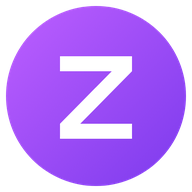
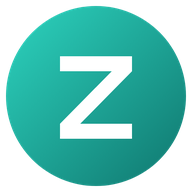
Switch accent colour from purple to teal
Mana has no colour setting, so add a site stylesheet (custom.css) loaded
after the theme's CSS via an overridden head/css.html partial. It
redefines the accent variables for dark and light mode plus the few
hard-coded purples (background glow, search highlights). Recolour the
logo and favicons to match.

Claude-Session: https://claude.ai/code/session_01NFspQHhVA3Ka4cSCqWoxnK

diff --git a/assets/css/custom.css b/assets/css/custom.css
@@ -1,0 +1,74 @@
+/* Zakonomics colour overrides for the Mana theme: purple → teal.
+   The variable names keep the theme's "purple" naming so they still match. */
+
+:root {
+  --accent-primary: #14b8a6;
+  --accent-mid-purple: #2dd4bf;
+  --accent-light-purple: #5eead4;
+  --accent-secondary: #22d3ee;
+  --accent-hover: #2dd4bf;
+  --primary-color: #2dd4bf;
+  --accent-primary-rgba-03: rgba(20, 184, 166, 0.3);
+  --accent-primary-rgba-05: rgba(20, 184, 166, 0.5);
+  --accent-light-purple-rgba-01: rgba(94, 234, 212, 0.1);
+  --accent-light-purple-rgba-03: rgba(94, 234, 212, 0.3);
+  --accent-mid-purple-rgba-05: rgba(45, 212, 191, 0.05);
+  --accent-mid-purple-rgba-01: rgba(45, 212, 191, 0.1);
+  --accent-mid-purple-rgba-02: rgba(45, 212, 191, 0.2);
+}
+
+[data-theme="light"] {
+  --glass-border: rgba(94, 234, 212, 0.55);
+  --accent-primary: #115e59;
+  --accent-mid-purple: #0f766e;
+  --accent-light-purple: #0d9488;
+  --accent-secondary: #0f766e;
+  --accent-hover: #0d9488;
+  --primary-color: #0f766e;
+  --accent-primary-rgba-03: rgba(17, 94, 89, 0.3);
+  --accent-primary-rgba-05: rgba(17, 94, 89, 0.5);
+  --accent-light-purple-rgba-01: rgba(13, 148, 136, 0.1);
+  --accent-light-purple-rgba-03: rgba(13, 148, 136, 0.3);
+  --accent-mid-purple-rgba-05: rgba(15, 118, 110, 0.05);
+  --accent-mid-purple-rgba-01: rgba(15, 118, 110, 0.1);
+  --accent-mid-purple-rgba-02: rgba(15, 118, 110, 0.2);
+  --tag-bg: rgba(15, 118, 110, 0.1);
+  --tag-color: #115e59;
+}
+
+/* Background glow (dark: deep teal instead of blue; light: mint instead of lavender) */
+body,
+.post-toc {
+  background-image: radial-gradient(
+    circle at center,
+    rgba(19, 78, 74, 0.35) 0%,
+    rgba(15, 23, 42, 0.5) 40%,
+    var(--bg-deep) 100%
+  );
+}
+
+[data-theme="light"] body,
+[data-theme="light"] .post-toc {
+  background-image: radial-gradient(
+    circle at center,
+    rgba(45, 212, 191, 0.18) 0%,
+    rgba(204, 251, 241, 0.4) 40%,
+    #ffffff 100%
+  );
+}
+
+/* Search overlay glow and match highlights */
+.search-input-wrapper,
+.search-results {
+  box-shadow:
+    0 10px 40px rgba(0, 0, 0, 0.4),
+    0 0 10px rgba(20, 184, 166, 0.1);
+}
+
+.search-result-title mark {
+  background-color: rgba(20, 184, 166, 0.3);
+}
+
+.search-result-summary mark {
+  background-color: rgba(20, 184, 166, 0.2);
+}

diff --git a/layouts/partials/head/css.html b/layouts/partials/head/css.html
@@ -1,0 +1,48 @@
+{{ $themeCss := resources.Get "css/theme.css" | minify | fingerprint }}
+{{- if site.Params.enableIntegrity }}
+<link rel="stylesheet" href="{{ $themeCss.RelPermalink }}" integrity="{{ $themeCss.Data.Integrity }}">
+{{- else }}
+<link rel="stylesheet" href="{{ $themeCss.RelPermalink }}">
+{{- end }}
+
+{{ partial "head/syntax-highlight.html" . }}
+
+{{ $cssFiles := slice
+  (resources.Get "css/base.css")
+  (resources.Get "css/main.css")
+  (resources.Get "css/header.css")
+  (resources.Get "css/hero.css")
+  (resources.Get "css/posts.css")
+  (resources.Get "css/single-post.css")
+  (resources.Get "css/filters.css")
+  (resources.Get "css/tags.css")
+  (resources.Get "css/archive.css")
+  (resources.Get "css/about.css")
+  (resources.Get "css/footer.css")
+  (resources.Get "css/scroll-to-top.css")
+  (resources.Get "css/reading-progress.css")
+  (resources.Get "css/code-blocks.css")
+  (resources.Get "css/blockquotes.css")
+  (resources.Get "css/pagination.css")
+  (resources.Get "css/search.css")
+  (resources.Get "css/language-switcher.css")
+  (resources.Get "css/rtl.css")
+  (resources.Get "css/animations.css")
+  (resources.Get "css/responsive.css")
+}}
+{{ $bundledCss := $cssFiles | resources.Concat "css/bundle.css" | minify | fingerprint }}
+{{- if site.Params.enableIntegrity }}
+<link rel="stylesheet" href="{{ $bundledCss.RelPermalink }}" integrity="{{ $bundledCss.Data.Integrity }}">
+{{- else }}
+<link rel="stylesheet" href="{{ $bundledCss.RelPermalink }}">
+{{- end }}
+
+{{/* Site override: load assets/css/custom.css after the theme's styles */}}
+{{ with resources.Get "css/custom.css" }}
+  {{ $customCss := . | minify | fingerprint }}
+  {{- if site.Params.enableIntegrity }}
+<link rel="stylesheet" href="{{ $customCss.RelPermalink }}" integrity="{{ $customCss.Data.Integrity }}">
+  {{- else }}
+<link rel="stylesheet" href="{{ $customCss.RelPermalink }}">
+  {{- end }}
+{{ end }}

diff --git a/README.md b/README.md
@@ -27,6 +27,7 @@ Pushes to `main`/`master` build and deploy to GitHub Pages via
 ## Customise
 
 - Site settings, hero text, social links, menu: `hugo.toml`
-- Avatar/logo: `assets/images/logo.svg`
+- Colours: `assets/css/custom.css` (overrides the theme's CSS variables; loaded via `layouts/partials/head/css.html`)
+- Avatar/logo: `assets/images/logo.svg` (favicons in `static/` are rendered from it)
 - About page: `content/about/index.md`
 - Theme options: see `themes/mana/README.md`
